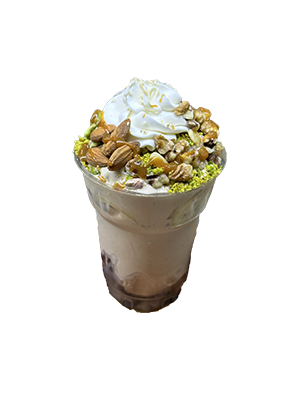
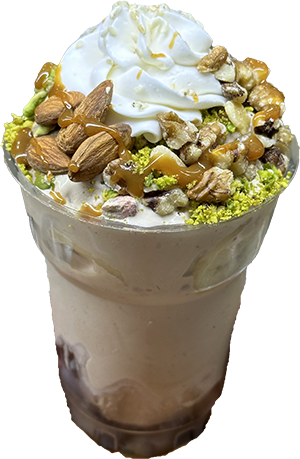
image size changes

diff --git a/style.css b/style.css
@@ -125,7 +125,7 @@ body {
 }
 
 .card .imageBox img {
-  /* width: 100px; */
+  width: 75px;
   /* border: 1px solid orange; */
   /* position: absolute; */
   object-fit: cover;
